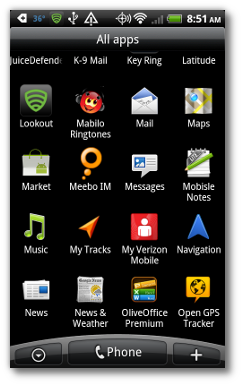
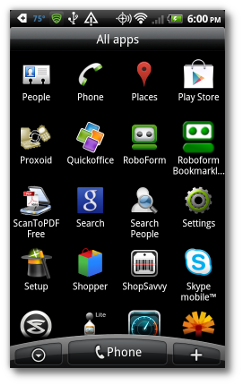
update android app

diff --git a/manual/source/android.rst b/manual/source/android.rst
@@ -12,16 +12,21 @@ use the application. For this example we will be using the HTC Incredible. Other
 Android phones may vary slightly in appearance and installation.
 
 Click the screen button on the phone to bring up the start menu for "All apps" 
-and scroll to and select :guilabel:`Market`. 
+and scroll to and select :guilabel:`Play Store` seen at the top right of the 
+image. 
 
 .. image:: pics/droid_all_apps.png
 
-Once selected you will be taken to the Market main screen. Click on the 
-magnifying glass on the top right and type in :kbd:`openlp` and select it.
+Once selected you will be taken to the Google Play main screen. 
+
+.. image:: pics/droid_play.png
+
+Click on the hardware magnifying glass or the magnifying glass on the top right 
+and type in :kbd:`openlp` and select it.
 
 .. image:: pics/droid_find.png
 
-Once selected this screen will appear and you will select OpenLP.
+Once selected, this screen will appear and you will select OpenLP.
 
 .. image:: pics/droid_free.png
 
